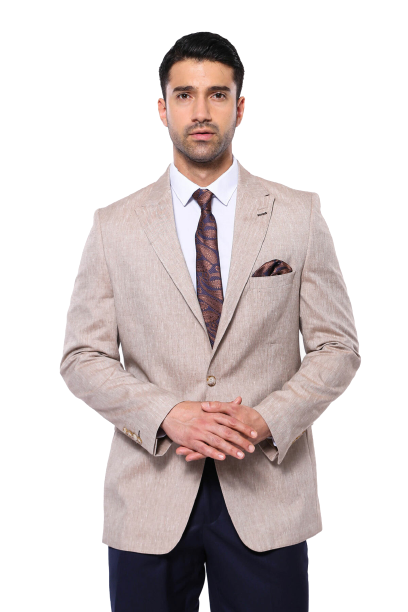
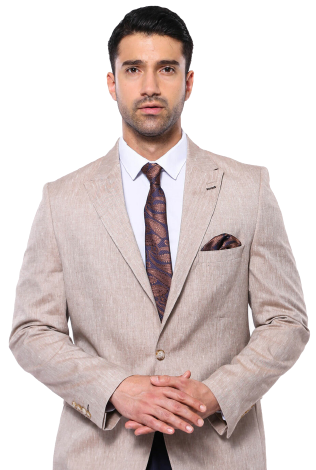
final

diff --git a/test.html b/test.html
@@ -10,9 +10,9 @@
 	<body>
 		<div class="grid">
 			<!-- Navbar Start -->
-			<div class="redBorder flex navbar">
+			<div class="flex navbar">
 				<div class="leftHead">
-					<h3>AR-SHAKIR</h3>
+					<h2>AR-SHAKIR</h2>
 				</div>
 				<div class="flex rightHead">
 					<p>Home</p>
@@ -27,27 +27,108 @@
 			</div>
 			<!-- Navbar End -->
 
-			<!-- Body Start -->
-			<div class="flex blackBorder bigBox">
-				<div class="leftBox redBorder">
+			<!-- Body 1 Start -->
+			<div class="flex bigBox">
+				<div class="leftBox">
 					<!-- <div> -->
-					<h1>BIG HEADING</h1>
+					<h1
+						style="
+							width: 80%;
+							font-size: 400%;
+							margin-left: -0.9%;
+							font-family: 'Segoe UI', Tahoma, Geneva, Verdana, sans-serif;
+						"
+					>
+						Find a Better <wbr /> Solution for Your <wbr /> Business
+					</h1>
 					<!-- </div> -->
-					<p>
-						Lorem ipsum dolor sit amet consectetur adipisicing elit. Dignissimos tenetur
-						dolor velit ducimus? Placeat, neque.
+					<p style="line-height: 1.3; font-size: 130%; margin-top: -5%">
+						From debt consolidation to your dream getaway, <br />
+						find a loan that meets your needs.
 					</p>
-					<button>Explore More</button>
+					<button
+						style="
+							background-color: #01b7c4;
+							color: white;
+							padding: 16px 30px;
+							width: 25%;
+							border: transparent;
+						"
+					>
+						Explore More
+					</button>
 				</div>
 				<div class="rightBox">
 					<div class="imageBox"></div>
 					<img
-						style="margin-top: -70%; width: 55%"
-						src="https://raw.githubusercontent.com/Prashant-SL/ultimez/main/enslim-fit-peak-lapel-light-brown-sport-coat-casual-blazer-wessi-454054-19-B-removebg-preview.png"
+						style="margin-top: -230%; width: 60%; margin-left: 3%"
+						src="https://github.com/Prashant-SL/ultimez/blob/main/enslim-fit-peak-lapel-light-brown-sport-coat-casual-blazer-wessi-454054-19-B-removebg-preview.png?raw=true"
 					/>
 				</div>
 			</div>
-			<!-- Body End -->
+			<!-- Body 1 End -->
+
+			<!-- Body 2 Start -->
+			<div class="left2 flex">
+				<div class="leftBoxes grid">
+					<div class="box grid">
+						<p style="font-size: 30px; margin-bottom: 1.3%"><b>New Stock</b></p>
+						<p style="color: rgb(22, 182, 22); font-size: 16px; margin-bottom: -2%">
+							<b>+ 12.55%</b>
+						</p>
+						<p style="color: rgb(255, 166, 0); font-size: 24px"><b>$ 83,729</b></p>
+					</div>
+
+					<div class="box2 grid">
+						<p style="color: rgb(11, 195, 195); font-size: 30px; margin-bottom: 1.3%">
+							<b style="
+                            color: rgb(11, 195, 195);
+                            font-size: 30px;
+                            margin-bottom: 1.1%;
+                            margin-top: 1.5%;
+                        ">95%</b>
+						</p>
+						<p style="color: rgb(0, 0, 0); font-size: 20px; margin-bottom: -2%">
+							<b>Positive Feedback</b>
+						</p>
+						<p style="color: rgb(0, 0, 0); font-size: 16px">
+							We strongly believe that<br />successful content marketing
+						</p>
+					</div>
+
+					<div class="box3">
+						<p></p>
+							<b
+								style="
+									color: rgb(11, 195, 195);
+									font-size: 30px;
+									margin-bottom: 1.1%;
+									margin-top: 1.5%;
+								"
+								>2.5k+</b
+							>
+						</p>
+						<p style="color: rgb(0, 0, 0); font-size: 20px; margin-bottom: -2%">
+							<b>Insta Followers</b>
+						</p>
+						<p style="color: rgb(0, 0, 0); font-size: 16px">
+							We strongly believe that<br />successful content marketing
+						</p>
+					</div>
+				</div>
+				<div class="rightBoxes">
+					<div class="grid">
+						<h2>Our Progress & Marketing <br />Analysis</h2>
+						<p style="margin-top: 0">
+							And produce say the ten moments parties. Simple innate <br />
+							summer fat appear basket his desire joy. Outward clothes <br />
+							promise at gravity do excited
+						</p>
+					</div>
+				</div>
+			</div>
+
+			<!-- Body 2 End -->
 		</div>
 	</body>
 </html>

diff --git a/test.css b/test.css
@@ -31,6 +31,7 @@
 .leftBox {
 	width: 40%;
 	margin-left: 10%;
+	margin-top: 10%;
 }
 .rightBox {
 	width: 50%;
@@ -40,8 +41,57 @@
 }
 .imageBox {
 	background-color: #fe7701;
-	width: 45%;
-	height: 300px;
+	width: 60%;
+	margin-left: 3%;
+	height: 500px;
 	margin-top: 40%;
 	border-radius: 20px;
+}
+.box {
+	width: 40%;
+	padding-left: 2%;
+	border-radius: 20px;
+}
+.box2 {
+	border-radius: 20px;
+	padding-left: 2%;
+	width: 40%;
+	margin-left: 50%;
+	margin-top: -15%;
+}
+.left2 {
+	border-radius: 20px;
+	gap: 100px;
+	display: flex;
+	padding-left: 10%;
+}
+.left2 > .leftBoxes {
+	width: 40%;
+}
+.leftBoxes {
+	margin-top: 7%;
+}
+.box3 {
+	width: 40%;
+	padding-left: 2%;
+	margin-top: -5%;
+	border-radius: 20px;
+}
+.box,
+.box2,
+.box3 {
+	box-shadow: rgba(50, 50, 93, 0.25) 0px 30px 60px -12px,
+		rgba(0, 0, 0, 0.3) 0px 18px 36px -18px;
+}
+.box2,
+.box3 {
+	text-align: center;
+}
+.rightBoxes {
+	margin-top: 10%;
+	margin-left: 2%;
+	line-height: 1.3;
+}
+* {
+	font-family: 'Segoe UI', Tahoma, Geneva, Verdana, sans-serif;
 }
